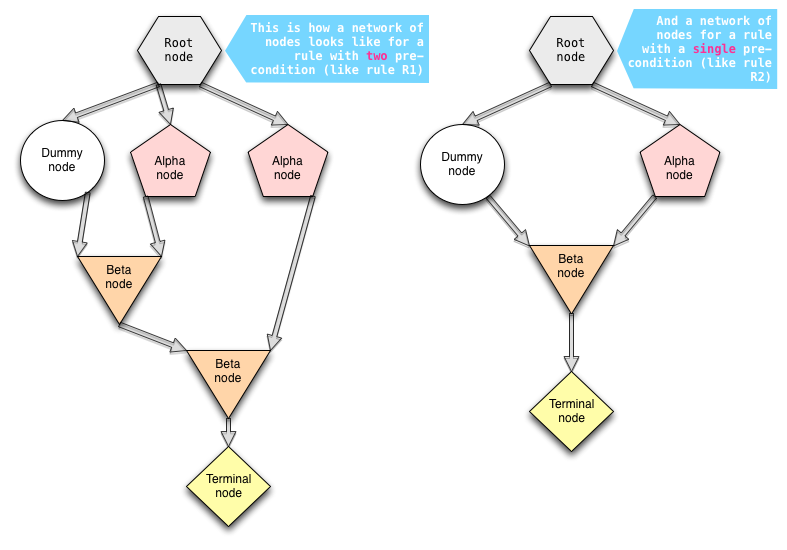
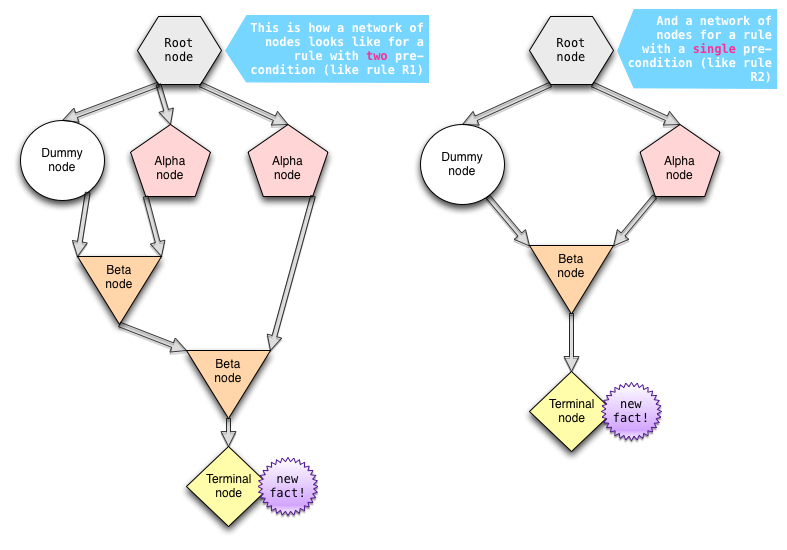
re-order of text

Changed region(s): [[0.305, 0.8345, 0.4269, 0.9582], [0.7624, 0.68, 0.8539, 0.8036]]

diff --git a/README.md b/README.md
@@ -44,18 +44,20 @@ fact - something we know of or we can observe, we make decisions based on facts 
 4. facts "fever" and "achiness" trigger rule R6, which asserts "viremia" into WM
 5. facts "viremia" and "nasal congestion" (step 1.) trigger rule R1 which then asserts "diagnosis influenza" into WM.
 
-### Bottom line is:
-
 Thee facts (F1, F2 and F3) are given as input to RETE, which then produces four new facts:
 "nasal congestion", "fever", "achiness" and "diagnosis viremia".
 
 ### Good to know:
 
-An inference run finishes when no more new facts get produced as a result of one or more rules firing (i.e. when R6 fires and asserts the fact into WM, no more rules fire);
-
 A rule has a left-hand side (LHS) and a right-hand side (RHS);
 
-When facts asserted into WM match the LHS of a rule, RETE executes it's RHS and produces new facts;
+When facts asserted into WM matches the LHS of a rule, RETE executes it's RHS and produces new facts;
+
+In order to support simultaneos and independent clients, a uniquie identifier is required for each batch of facts submitted to RETE initially. We call this an inference run id.
+
+All facts produced by terminal nodes are "fed" back to RETE (see diagram above), which then passes them to all root nodes in it's network. That's how forward chaining works. When no more terminal nodes fire, or the facts produced are already known, the inference run stops.
+
+![forward chaining loop](https://github.com/bridgeworks-nl/scala-rete/blob/master/doc/forward_chaining.png)
 
 # Actor Design
 ![rete nodes for the first and second rules](https://github.com/bridgeworks-nl/scala-rete/blob/master/doc/rete_nodes.png)
@@ -70,7 +72,3 @@ Passes on a fact it receives without applying any logic. It's introduction simpl
 It alwas has a left side and a right side. It receives facts from alpha and dummy actors on it's left and right sides. It knows a single terminal actor.
 ## Terminal node
 When a terminal nodes receives a fact from a beta node, it executes the RHS of the rule. For example in R1, the terminal node will produce the "diagnosis influenza" fact.
-## Forward Chaning Loop (Inference Run)
-All facts produced by terminal nodes are "fed" back to RETE (see diagram above), which then passes them to all root nodes in it's network. That's how forward chaining works. When no more terminal nodes fire, or the facts produced are already known, the inference run stops.
-
-![forward chaining loop](https://github.com/bridgeworks-nl/scala-rete/blob/master/doc/forward_chaining.png)
